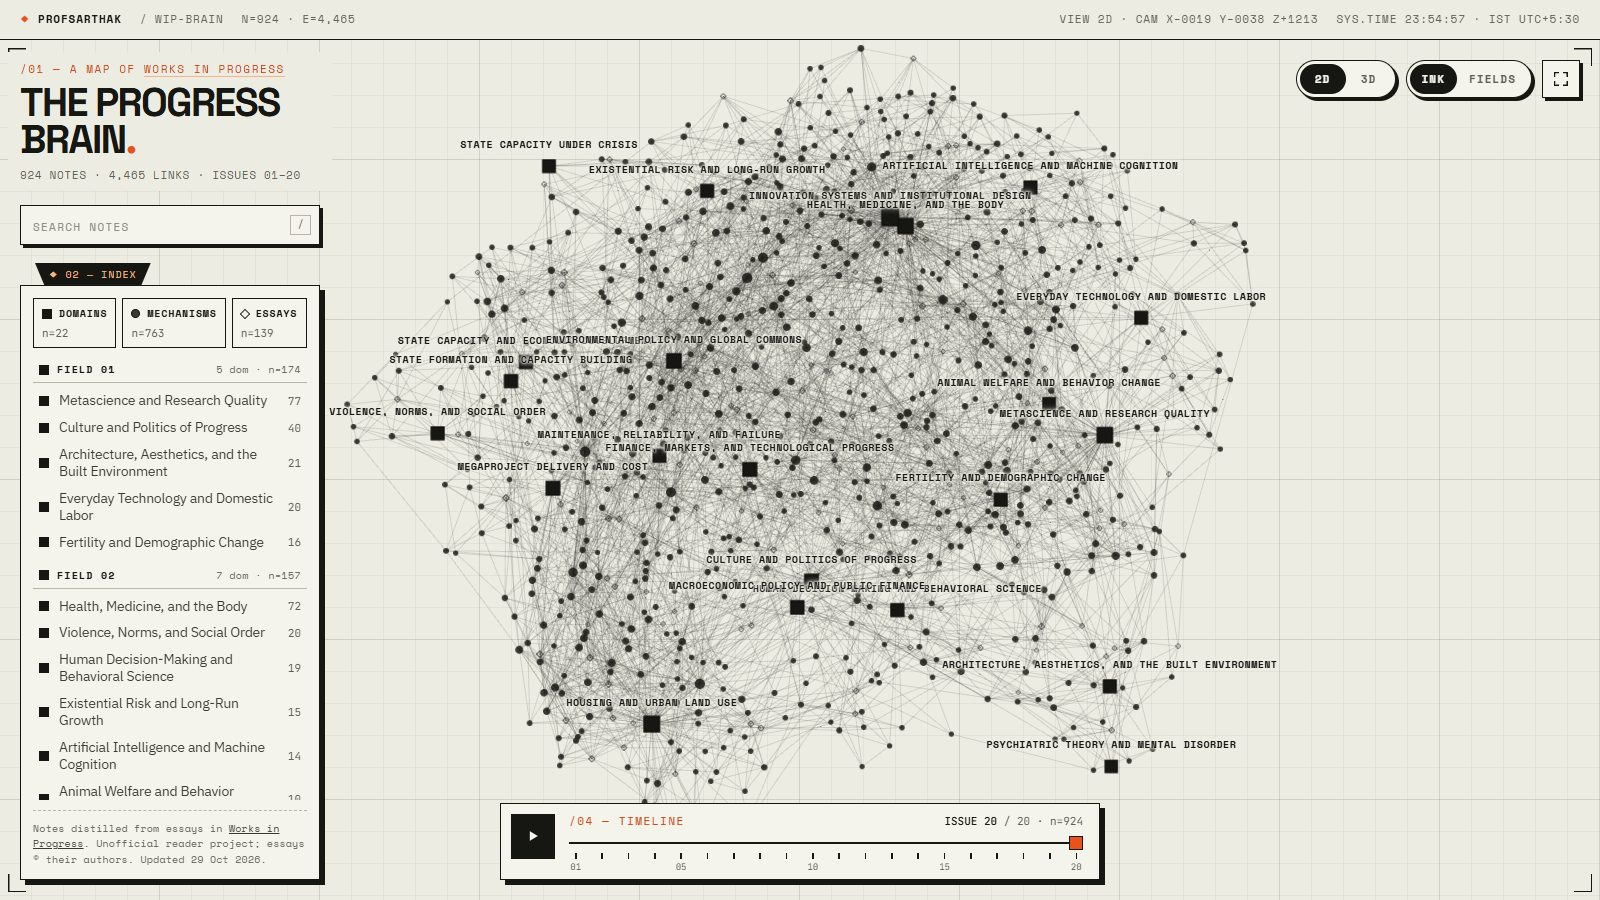
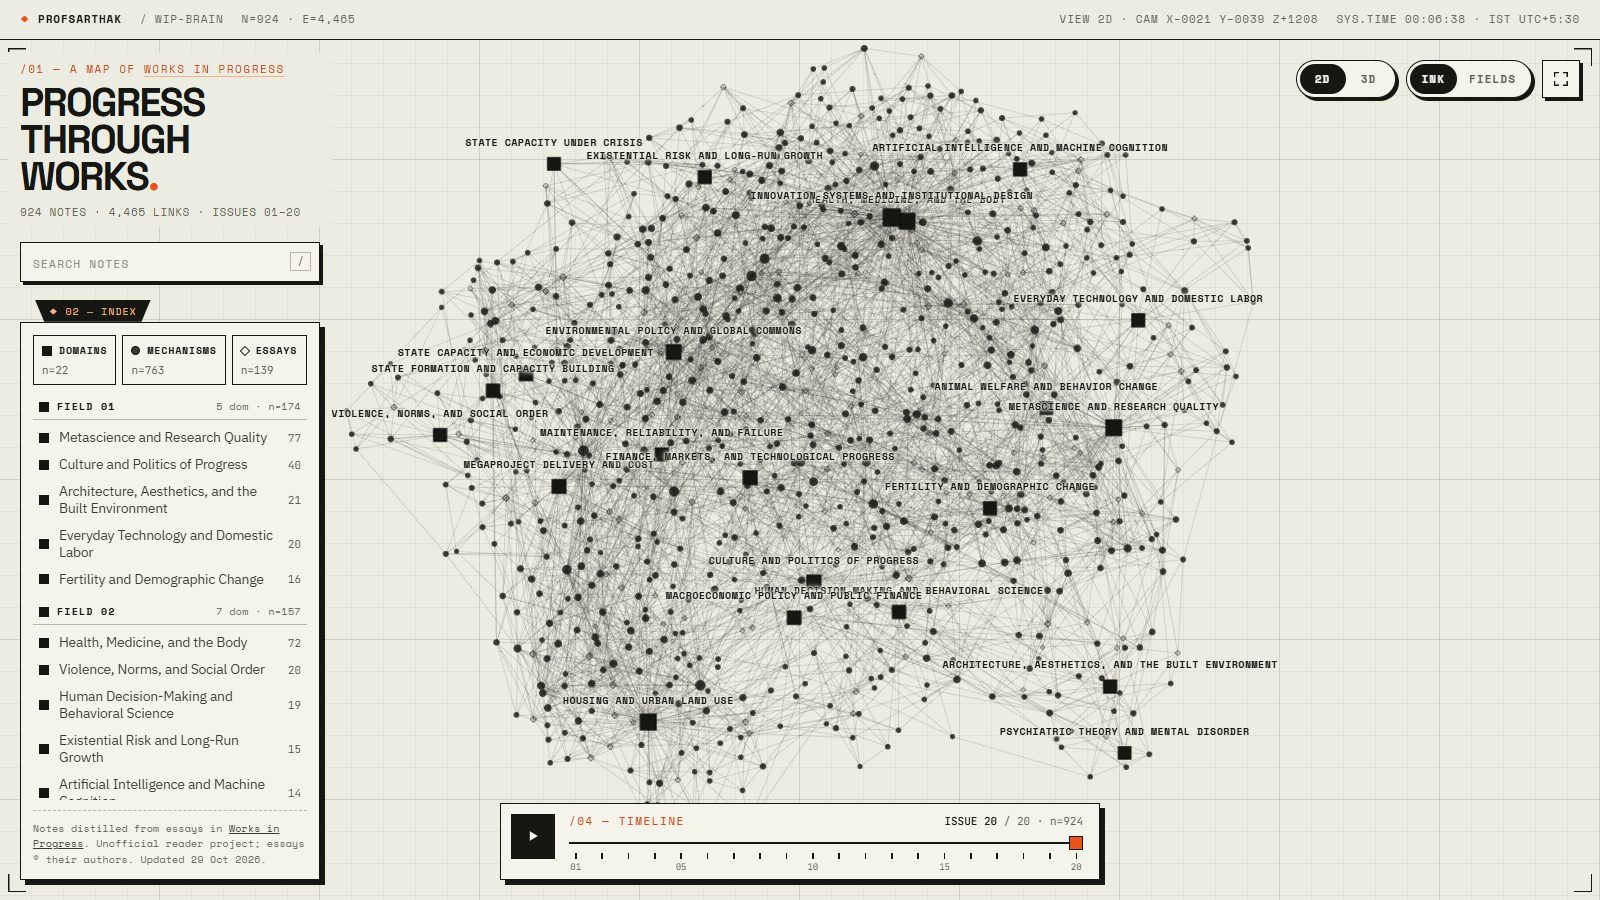
Retitle the site "Progress Through Works"

Changed region(s): [[0.0, 0.0622, 0.8125, 0.9022]]

diff --git a/docs/index.html b/docs/index.html
@@ -3,10 +3,10 @@
 <head>
   <meta charset="utf-8">
   <meta name="viewport" content="width=device-width, initial-scale=1, viewport-fit=cover">
-  <title>The Progress Brain</title>
+  <title>Progress Through Works</title>
   <meta name="description" content="An interactive 2D/3D diagram of a linked Obsidian second brain distilled from Works in Progress magazine: essays, the mechanisms they argue for, and the fields they belong to.">
   <meta name="author" content="Sarthak Mohanty">
-  <meta property="og:title" content="The Progress Brain">
+  <meta property="og:title" content="Progress Through Works">
   <meta property="og:description" content="Essays from Works in Progress, the mechanisms they argue for, and the fields they belong to: an interactive 2D/3D second brain.">
   <meta property="og:image" content="https://profsarthak.github.io/wip-brain/preview.jpg">
   <meta name="twitter:card" content="summary_large_image">
@@ -46,7 +46,7 @@
   <div class="rail">
     <header class="brand">
       <div class="eyebrow">/01 — A map of <a href="https://worksinprogress.co" target="_blank" rel="noopener">Works in Progress</a></div>
-      <h1>The Progress Brain<span class="dot">.</span></h1>
+      <h1>Progress Through Works<span class="dot">.</span></h1>
       <div class="stats" id="stats">&nbsp;</div>
     </header>
 

diff --git a/docs/style.css b/docs/style.css
@@ -1,4 +1,4 @@
-/* The Progress Brain, in the PROFSARTHAK "Technical Brutalist" system:
+/* Progress Through Works, in the PROFSARTHAK "Technical Brutalist" system:
    bone paper, near-black ink, one hot-orange accent, hard 1.5px lines and hard offset shadows.
    Token values are copied from profsarthak/personal-brand tokens/*.css. */
 :root {

diff --git a/README.md b/README.md
@@ -1,10 +1,10 @@
-# The Progress Brain
+# Progress Through Works
 
 An interactive 2D/3D map of my Obsidian second brain built from [Works in Progress](https://worksinprogress.co) magazine: every essay, the transferable mechanisms it argues for, and the fields those mechanisms belong to.
 
 **Live: https://profsarthak.github.io/wip-brain/**
 
-![The Progress Brain](docs/preview.jpg)
+![Progress Through Works](docs/preview.jpg)
 
 ## What you're looking at
 
